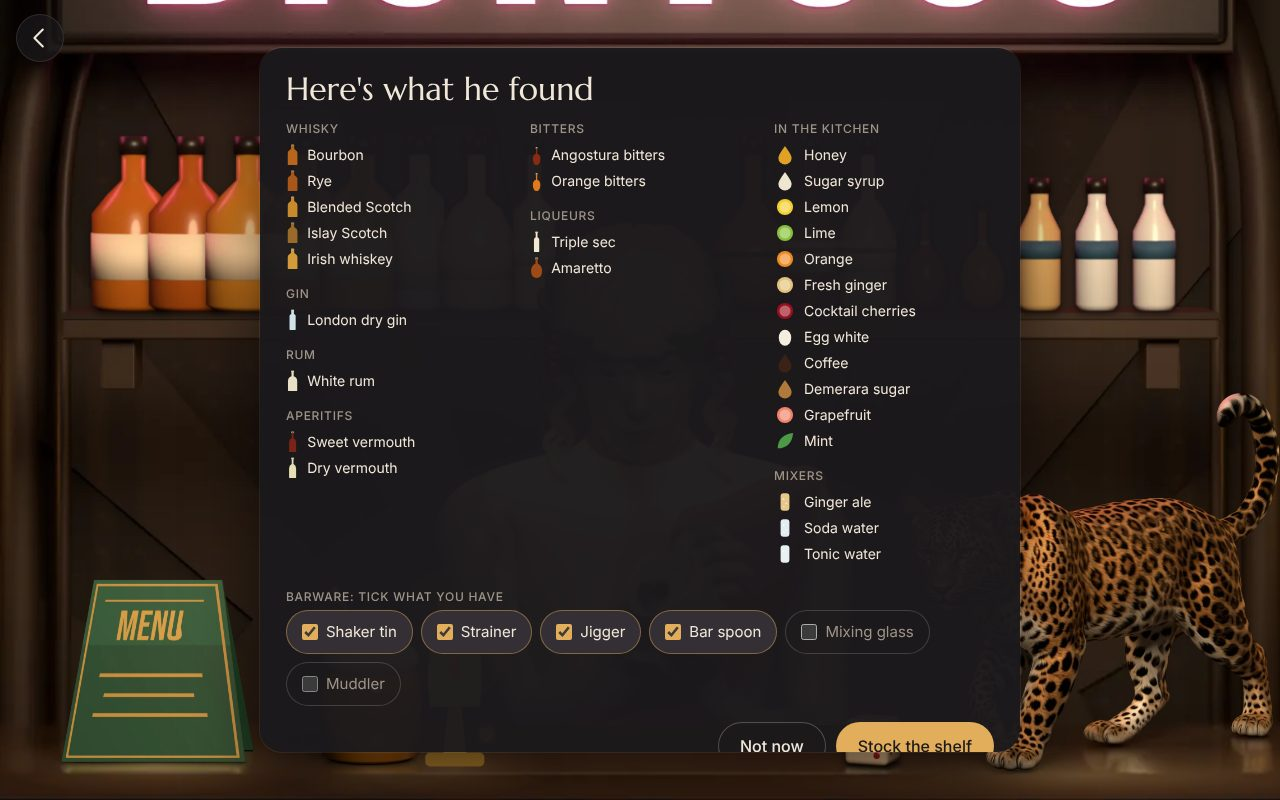
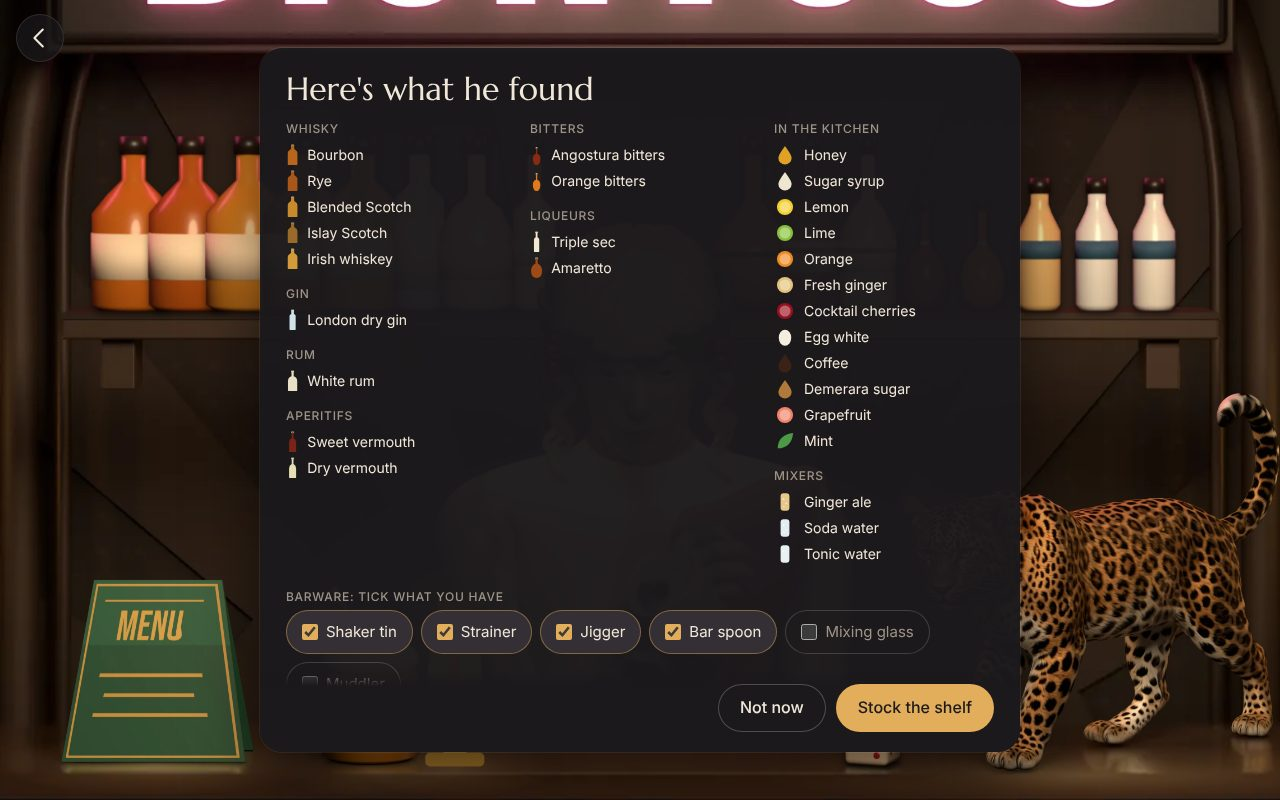
Prototype E: recipe fits at default size, readable disabled buttons, sticky sheet buttons, menu re-measures, phone shelf in view
- Tablet, default text: every drink's ingredients show without scrolling
  (tighter rows, a smaller head glass, the card a little taller; the step
  box keeps a 180 px floor). A+ keeps its capped, scrolling ingredients.
- Disabled buttons use muted text at full opacity: 5.84:1 on the card.
- Paste and found sheets keep their buttons in a sticky footer.
- Menu strips and the A-Z ring re-measure on resize and rotation
  (debounced), keeping scroll, position and the chosen letter.
- Phone: the shelf camera sits the bottles above the Your bar sheet.

Claude-Session: https://claude.ai/code/session_017R8H9iatqLJtjbxy9HG2GV

Changed region(s): [[0.5625, 0.8438, 0.7812, 0.9375], [0.2188, 0.8438, 0.3125, 0.875]]

diff --git a/prototypes/e-rendered/style.css b/prototypes/e-rendered/style.css
@@ -140,7 +140,10 @@ svg.ghost{opacity:.3}
 .btn.ghost{background:transparent;color:var(--ink);box-shadow:0 0 0 1px rgba(240,231,216,.25) inset}
 .btn.ghost:hover{background:var(--faint)}
 .btn.small{min-height:40px;padding:6px 14px;font-size:14px}
-.btn:disabled{opacity:.35;cursor:default}
+.btn:disabled{cursor:default}
+/* disabled stays readable (WCAG AA): muted text and a fainter outline, not a faded button */
+.btn.ghost:disabled{background:transparent;color:var(--mute);box-shadow:0 0 0 1px rgba(240,231,216,.12) inset}
+.btn:not(.ghost):disabled{background:transparent;color:var(--mute);box-shadow:0 0 0 1px rgba(240,231,216,.12) inset}
 .row{display:flex;gap:10px;justify-content:flex-end;flex-wrap:wrap}
 
 /* Menu: the card he zoomed into, with Halo's strips and ring */
@@ -233,22 +236,23 @@ svg.ghost{opacity:.3}
 .settings .note a{color:var(--acc)}
 
 /* ---- Recipe: Halo's grid on a dark card; he stands sharp beside it (R10) ---- */
-.recipe{left:max(20px,3vw);top:76px;bottom:20px;width:min(480px,46vw);display:flex;flex-direction:column;background:var(--panel);color:var(--ink);border-radius:22px;padding:18px 22px 14px;
+.recipe{left:max(20px,3vw);top:72px;bottom:14px;width:min(480px,46vw);display:flex;flex-direction:column;background:var(--panel);color:var(--ink);border-radius:22px;padding:18px 22px 14px;
  box-shadow:0 0 0 1px rgba(240,231,216,.08),0 24px 60px rgba(0,0,0,.6)}
-.recipe .rtop{flex:0 0 auto;max-height:45%;min-height:72px;overflow:auto;scrollbar-width:thin;scrollbar-color:var(--faint) transparent;margin:0 -6px;padding:0 6px}
+/* default size: the step box keeps a floor and the ingredients take the rest, so every row shows; at A+ the ingredients are capped */
+.recipe .rtop{flex:0 1 auto;min-height:72px;overflow:auto;scrollbar-width:thin;scrollbar-color:var(--faint) transparent;margin:0 -6px;padding:0 6px}
 .recipe .kicker{display:flex;align-items:center;gap:8px;margin:0 56px 6px 0;font-size:13.5px;color:var(--acc)}
 .recipe .kicker b{font-weight:500;color:var(--ink)}
-.recipe .head{display:grid;grid-template-columns:72px 1fr;column-gap:14px;align-items:end;margin:0 52px 10px 0}
+.recipe .head{display:grid;grid-template-columns:64px 1fr;column-gap:14px;align-items:end;margin:0 52px 8px 0}
 .recipe .head .rg{display:flex;justify-content:center;align-items:flex-end}
 .recipe h2{font:400 38px/1.02 var(--display);letter-spacing:.01em;margin:0 0 6px}
 .recipe .rm{display:flex;flex-wrap:wrap;gap:4px 14px;color:var(--mute);font-size:calc(13.5px * min(var(--text-scale), 1.15))}.recipe .rm span{display:flex;align-items:center;gap:6px}
 .again{position:absolute;top:10px;right:10px;width:56px;height:56px;border:0;background:none;border-radius:16px;display:grid;place-items:center}
 .again:hover{background:rgba(240,231,216,.05)}
-.recipe .worth{margin:0 0 8px;background:rgba(226,174,92,.12);color:var(--ink);border-radius:12px;padding:8px 12px;font-size:14px}
-.recipe .golden{margin:0 0 8px;background:linear-gradient(90deg,rgba(232,196,90,.25),rgba(255,243,196,.06));color:var(--ink);border-radius:12px;padding:8px 12px;font-size:14px}
-.recipe .ing{--s:var(--text-scale);display:grid;grid-template-columns:28px calc(52px * var(--s)) calc(40px * var(--s)) 1fr auto;column-gap:10px;row-gap:3px;align-items:center;margin:2px 0 8px}
+.recipe .worth{margin:0 0 6px;background:rgba(226,174,92,.12);color:var(--ink);border-radius:12px;padding:8px 12px;font-size:14px}
+.recipe .golden{margin:0 0 6px;background:linear-gradient(90deg,rgba(232,196,90,.25),rgba(255,243,196,.06));color:var(--ink);border-radius:12px;padding:8px 12px;font-size:14px}
+.recipe .ing{--s:var(--text-scale);display:grid;grid-template-columns:28px calc(52px * var(--s)) calc(40px * var(--s)) 1fr auto;column-gap:10px;row-gap:1px;align-items:center;margin:0 0 6px}
 .recipe .ir{display:contents}
-.recipe .ii{display:grid;place-items:center;height:30px}
+.recipe .ii{display:grid;place-items:center;height:27px}
 .recipe .iq{text-align:right;font-size:calc(18px * var(--s));font-variant-numeric:tabular-nums}
 .recipe .iu{font-size:calc(13px * var(--s));color:var(--mute)}
 .recipe .in{font-size:calc(17px * var(--s));line-height:1.2}
@@ -258,7 +262,7 @@ svg.ghost{opacity:.3}
 .toolswap{border:1px solid rgba(226,174,92,.35);background:transparent;color:#d8cfc2;border-radius:12px;padding:7px 12px;font-size:calc(13.5px * var(--text-scale));margin:0 0 4px}
 .toolswap b{color:var(--ink);font-weight:500}
 /* R6, R11: one step at a time, big enough to read from a metre; the size is one variable. The glyph shows the hand's movement. */
-.stepbox{flex:1 1 0;min-height:0;overflow:auto;margin-top:6px;border-top:1px solid var(--line);padding:12px 2px 6px;cursor:pointer;display:grid;grid-template-columns:1fr auto;column-gap:14px;align-items:start;scrollbar-width:thin;scrollbar-color:var(--faint) transparent}
+.stepbox{flex:1 1 0;min-height:180px;overflow:auto;margin-top:6px;border-top:1px solid var(--line);padding:12px 2px 6px;cursor:pointer;display:grid;grid-template-columns:1fr auto;column-gap:14px;align-items:start;scrollbar-width:thin;scrollbar-color:var(--faint) transparent}
 .stepbox .stxt{min-width:0}
 .stepbox .stepno{margin:0;font:600 12px var(--body);letter-spacing:.08em;text-transform:uppercase;color:var(--mute)}
 .stepbox .stepno i{font-style:normal;color:var(--acc)}
@@ -337,6 +341,7 @@ svg.ghost{opacity:.3}
  .kicker .dice{display:none}
  .recipe .btn{padding:10px 16px}
  .again{width:52px;height:44px;top:8px;right:6px}.again .dice{--ds:15px!important}
+ .stepbox{min-height:140px}
  .recipe .rtop{-webkit-mask-image:linear-gradient(#000 calc(100% - 16px),transparent);mask-image:linear-gradient(#000 calc(100% - 16px),transparent);padding-bottom:10px}
  .menucard{width:calc(100vw - 16px);height:calc(100dvh - 84px);top:calc(50% + 30px)}
  .menucard h2{font-size:30px}
@@ -471,4 +476,14 @@ svg.ghost{opacity:.3}
  /* at the largest text the step comes first: the moving glyph is left to the thumbnails, the ingredients get a smaller share */
  :root[data-big] .stepbox .glyph{display:none}
  :root[data-big] .recipe .rtop{max-height:32%}
+ :root[data-big] .stepbox{min-height:0}
 }
+
+/* A+ and above: the step needs the room, the ingredients keep a capped, scrolling share */
+:root[data-big] .recipe .rtop{flex:0 0 auto;max-height:45%}
+:root[data-big] .stepbox{min-height:0}
+@media (max-width:640px){ :root[data-big] .recipe .rtop{max-height:32%} }
+
+/* sheets: the main buttons stay in view; the content scrolls under them */
+.sheet .row{position:sticky;bottom:-20px;z-index:2;margin:6px -26px -20px;padding:12px 26px 20px;background:linear-gradient(rgba(27,25,28,0),#1b191c 14px)}
+@media (max-width:640px){ .sheet .row{bottom:-14px;margin:6px -16px -14px;padding:12px 16px 14px} }

diff --git a/prototypes/e-rendered/app.js b/prototypes/e-rendered/app.js
@@ -58,6 +58,14 @@ class Strip {
     this.bind(); this.draw();
   }
   clamp(x) { return Math.max(this.minX, Math.min(this.maxX, x)); }
+  /* on resize or rotation: keep the card that was first in view, re-fit the bounds */
+  remeasure(o) {
+    const first = Math.round((this.maxX - this.x) / this.step);
+    this.w = o.itemW; this.gap = o.gap; this.pad = o.pad; this.items.forEach(e => { e.style.width = this.w + 'px'; });
+    this.W = this.h.clientWidth; this.step = this.w + this.gap;
+    this.maxX = this.pad; this.minX = Math.min(this.maxX, this.W - this.pad - this.n * this.step + this.gap);
+    cancelAnimationFrame(this.raf); this.x = this.clamp(this.maxX - first * this.step); this.draw();
+  }
   draw() { this.items.forEach((e, k) => { e.style.transform = `translate3d(${(this.x + k * this.step).toFixed(1)}px,0,0)`; }); }
   animateTo(target) {
     cancelAnimationFrame(this.raf);
@@ -138,7 +146,7 @@ const SHOTS = {
   intro: { L: [440, 40, 720, 200], P: [452, 40, 696, 200] },
   home: { L: [160, 20, 1280, 800], P: [446, -60, 830, 1250] },
   menu: { L: [MENU_R.x - 30, MENU_R.y - 14, MENU_R.w + 60, MENU_R.h + 28], P: [MENU_R.x - 8, MENU_R.y - 6, MENU_R.w + 16, MENU_R.h + 12] },
-  shelf: { L: [420, 200, 760, 475], P: [440, 180, 720, 400] },
+  shelf: { L: [420, 200, 760, 475], P: [440, -8, 720, 400] },   /* phone: anchored at the top, so the shelf sits above the Your bar sheet */
   talk: { L: [470, 300, 800, 430], P: [600, 300, 400, 420] },
   /* R10: the card on the left, Dionysus sharp on the right, doing the step */
   recipe: { L: [300, 296, 736, 470], P: [560, 236, 480, 560] },
@@ -152,7 +160,7 @@ function fit([x, y, w, h], anchor) {
 }
 function shotRect(name) {
   const s = SHOTS[name], phone = innerWidth < innerHeight && s.P;
-  return fit(phone ? s.P : s.L, phone && name === 'recipe' ? 'top' : null);
+  return fit(phone ? s.P : s.L, phone && (name === 'recipe' || name === 'shelf') ? 'top' : null);
 }
 function cam(name, dur = 900) {
   shotName = name; showPatch(name); const to = shotRect(name), from = vb.slice();
@@ -444,9 +452,16 @@ function menuBody(tab) {
   if (tab === 'feel') return Object.entries(FEELS).map(([k, v]) => sec(feelIco(FEEL_ICON4[k], 26), v, R.filter(r => feelOf(r) === k), 'feel')).join('');
   return `<div class="az" id="az" tabindex="0" aria-label="A to Z. Arrow keys move round the letters."></div>`;
 }
+const stripOpts = () => ({ itemW: phoneMenu() ? 124 : 150, gap: phoneMenu() ? 12 : 20, pad: phoneMenu() ? 16 : 24 });
+let menuStrips = [];
+/* the menu re-measures (debounced) on resize and rotation: strips keep their place, the ring keeps its letter, the list keeps its scroll */
+let menuRT; addEventListener('resize', () => { clearTimeout(menuRT); menuRT = setTimeout(() => {
+  if (panel.hidden || !panel.classList.contains('menucard')) return;
+  menuStrips.forEach(st => st.h.isConnected && st.remeasure(stripOpts()));
+  const az = $('#az'); if (az && az._remeasure) az._remeasure(); }, 150); });
 function fillMenu(tab) {
   const body = panel.querySelector('.mbody'); body.innerHTML = menuBody(tab); body.scrollTop = 0;
-  body.querySelectorAll('.strip').forEach(h => new Strip(h, { itemW: phoneMenu() ? 124 : 150, gap: phoneMenu() ? 12 : 20, pad: phoneMenu() ? 16 : 24 }));
+  menuStrips = [...body.querySelectorAll('.strip')].map(h => new Strip(h, stripOpts()));
   if (tab === 'az') mountAZ($('#az'));
   wireDrinks();
 }
@@ -466,9 +481,11 @@ function wireDrinks() { panel.querySelectorAll('.dc').forEach(b => b.onclick = (
 const ALPHA = 'ABCDEFGHIJKLMNOPQRSTUVWXYZ';
 function mountAZ(az) {
   if (!az) return;
-  const small = phoneMenu();
+  let small = phoneMenu();
   const byL = {}; [...R].sort((a, b) => a.name.localeCompare(b.name)).forEach(r => { const k = r.name[0].toUpperCase(); (byL[k] = byL[k] || []).push(r); });
-  const W = az.clientWidth, H = az.clientHeight, cx = W / 2, cy = H / 2, RR = Math.min(W, H) * (small ? .43 : .44), R2 = RR * .55, LH = small ? 20 : 24, IW = small ? 43 : 52;
+  let W, H, cx, cy, RR, R2, LH, IW;
+  const measure = () => { small = phoneMenu(); W = az.clientWidth; H = az.clientHeight; cx = W / 2; cy = H / 2; RR = Math.min(W, H) * (small ? .43 : .44); R2 = RR * .55; LH = small ? 20 : 24; IW = small ? 43 : 52; };
+  measure();
   const els = [...ALPHA].map(c => { const e = document.createElement('div'); e.className = 'lt' + (byL[c] ? '' : ' none'); e.textContent = c; e.setAttribute('aria-hidden', 'true'); az.appendChild(e); return e; });
   const pos = (n, N, r) => { const a = (n / N) * 2 * Math.PI - Math.PI / 2; return [cx + r * Math.cos(a), cy + r * Math.sin(a), a]; };
   const fish = (d, sd) => Math.exp(-(d * d) / (2 * sd * sd));
@@ -495,6 +512,8 @@ function mountAZ(az) {
   const aim = p => { if (mode === 'letters') { fL = p.a * 26; drawLetters(); const k = Math.round(fL) % 26; if (k !== last) { last = k; if (byL[ALPHA[k]] && ALPHA[k] !== shown) buildInner(ALPHA[k], true); try { navigator.vibrate && navigator.vibrate(4); } catch (_) {} } }
     else if (mode === 'drinks') { fD = p.a * inner.length; drawInner(); } };
   drawLetters();
+  /* on resize or rotation: new geometry, same letter and drinks, no entrance animation again */
+  az._remeasure = () => { measure(); drawLetters(); drawInner(); };
   az.addEventListener('pointerdown', e => { const p = polar(e); mode = zone(p); if (mode === 'centre') { mode = null; return; } try { az.setPointerCapture(e.pointerId); } catch (_) {} aim(p); });
   const rest = () => { fL = letter ? ALPHA.indexOf(letter) : null; drawLetters(); if (fD != null) { fD = null; drawInner(); } };
   az.addEventListener('pointermove', e => { const p = polar(e); if (mode) return aim(p); if (e.pointerType !== 'mouse') return; const z = zone(p);
@@ -615,7 +634,7 @@ function openRecipe(id, chosen) {
   golden = Math.random() < .15;
   const swaps = swapsFor(r);
   const worth = chosen && chosen.worth;
-  let pic = glassSide(r, 88); if (golden) pic = pic.replace('fill="var(--glass)"/>', 'fill="var(--glass)" stroke="#e8c45a" stroke-width="3"/>');
+  let pic = glassSide(r, 76); if (golden) pic = pic.replace('fill="var(--glass)"/>', 'fill="var(--glass)" stroke="#e8c45a" stroke-width="3"/>');
   panel.className = 'panel recipe'; panel.hidden = false;
   panel.innerHTML = `<div class="rtop">${chosen ? `<div class="kicker">${diceHTML(14)}<span>Barman’s choice${worth ? ` · <b>worth buying a bottle for</b>` : ''}</span></div>` : ''}
    <button class="again" id="againDice" aria-label="Another barman’s choice">${diceHTML(22)}</button>
